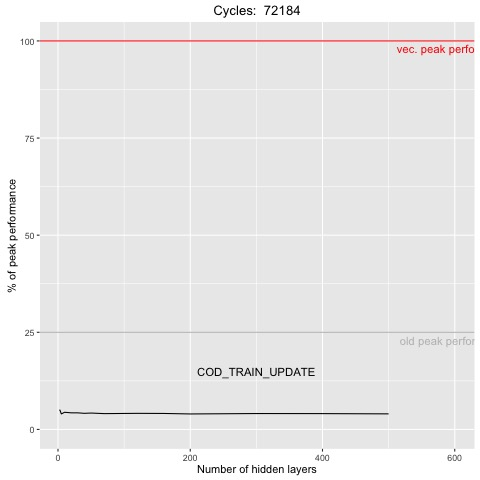
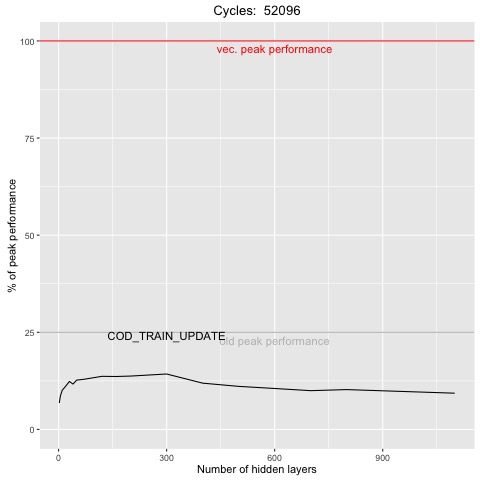
Scalar merged

diff --git a/rbm_final_Utrans/scalar/merged/rbm.h b/rbm_final_Utrans/scalar/merged/rbm.h
@@ -260,16 +260,68 @@ double sigmoid(double val)
  * This function if more general then the previous one for h0_cap
  * h <- sigmoid( c + Wx + Uy )
  */
-void h_update(double * h, int y0, int * x0){
+void h_update(double * h, int y0, double * x0){
+    
+    double sum, s1, s2, s3, s4;
+    __m128d w5, w6, w7, w8, w13, w14, w15, w16;
+    __m128d x5, x6, x7, x8, x13, x14, x15, x16;
+    
+    double sum2;
     
     for (int i = 0; i < n ; i++)
     {
-        double sum = c[i];
-        for (int j = 0; j < D; j++)
+        __m128d s5 = {0};
+        __m128d s6 = {0};
+        __m128d s7 = {0};
+        __m128d s8 = {0};
+        int iD = i*D;
+        for (int j = 0; j < D; j+=16)
         {
-            sum = sum + W[i * D + j] * x0[j];
+            
+            w5 = _mm_load_sd(W + iD + j + 4);
+            w6 = _mm_load_sd(W + iD + j + 5);
+            w7 = _mm_load_sd(W + iD + j + 6);
+            w8 = _mm_load_sd(W + iD + j + 7);
+            w13 = _mm_load_sd(W + iD + j + 12);
+            w14 = _mm_load_sd(W + iD + j + 13);
+            w15 = _mm_load_sd(W + iD + j + 14);
+            w16 = _mm_load_sd(W + iD + j + 15);
+            
+            x5 = _mm_load_sd(x0 + j + 4);
+            x6 = _mm_load_sd(x0 + j + 5);
+            x7 = _mm_load_sd(x0 + j + 6);
+            x8 = _mm_load_sd(x0 + j + 7);
+            x13 = _mm_load_sd(x0 + j + 12);
+            x14 = _mm_load_sd(x0 + j + 13);
+            x15 = _mm_load_sd(x0 + j + 14);
+            x16 = _mm_load_sd(x0 + j + 15);
+            
+            
+            s1 = s1 + W[iD + j] * x0[j];
+            s2 = s2 + W[iD + j+1] * x0[j+1];
+            s3 = s3 + W[iD + j+2] * x0[j+2];
+            s4 = s4 + W[iD + j+3] * x0[j+3];
+            
+            s1 = s1 + W[iD + j+8] * x0[j+8];
+            s2 = s2 + W[iD + j+9] * x0[j+9];
+            s3 = s3 + W[iD + j+10] * x0[j+10];
+            s4 = s4 + W[iD + j+11] * x0[j+11];
+            
+            s5 = _mm_fmadd_sd(w5, x5, s5);
+            s6 = _mm_fmadd_sd(w6, x6, s6);
+            s7 = _mm_fmadd_sd(w7, x7, s7);
+            s8 = _mm_fmadd_sd(w8, x8, s8);
+            s5 = _mm_fmadd_sd(w13, x13, s5);
+            s6 = _mm_fmadd_sd(w14, x14, s6);
+            s7 = _mm_fmadd_sd(w15, x15, s7);
+            s8 = _mm_fmadd_sd(w16, x16, s8);
+            
         }
-        
+        s5 = _mm_add_sd(s5, s6);
+        s7 = _mm_add_sd(s7, s8);
+        s5 = _mm_add_sd(s5, s7);
+        _mm_store_sd(&sum2,s5);
+        sum = c[i] + s1+ s2+ s3+ s4 + sum2;
         
         //Can be optimized
         for (int j = 0; j < K; j++)
@@ -419,11 +471,15 @@ void COD_training_update(int yi, int * xi, double * h0_cap,
     //double * h0_cap = (double *) malloc(sizeof(double) * n);
     
     // Here we update h0_cap <- sigmoid( c + Wx0 + Uy0 )
+    
+    double* x0d = (double*)malloc(sizeof(double)*n);
+    for (int i = 0; i < n; i++)
+        x0d[i] = (double)x0[i];
 #ifdef PERF_H0_UPDATE
     myInt64 start;
     start = start_tsc();
 #endif
-    h_update(h0_cap, y0, x0);
+    h_update(h0_cap, y0, x0d);
 #ifdef PERF_H0_UPDATE
     myInt64 cycles = stop_tsc(start);
     count = count + 1;
@@ -481,12 +537,18 @@ void COD_training_update(int yi, int * xi, double * h0_cap,
     
     
     
+    
     // Here we update h1_cap <- sigmoid( c + Wx1 + Uy1 )
+    
+    double* x1d = (double*)malloc(sizeof(double)*n);
+    for (int i = 0; i < n; i++)
+        x1d[i] = (double)x1[i];
+    
 #ifdef PERF_H1_UPDATE
     myInt64 start;
     start = start_tsc();
 #endif
-    h_update(h1_cap, y1, x1);
+    h_update(h1_cap, y1, x1d);
 #ifdef PERF_H1_UPDATE
     myInt64 cycles = stop_tsc(start);
     count = count + 1;
@@ -684,26 +746,53 @@ double energy_for_all()
  */
 void gibbs_H(int y0)
 {
-    for (int j = 0; j < n; j++)
+    double sum, s1, s2, s3, s4, s5, s6, s7, s8;
+    for (int i = 0; i < n ; i++)
     {
-        double sum = c[j] + U[y0 * n + j];
-        for (int i = 0; i < D; i++)
+        s1 = 0;
+        s2 = 0;
+        s3 = 0;
+        s4 = 0;
+        s5 = 0;
+        s6 = 0;
+        s7 = 0;
+        s8 = 0;
+        for (int j = 0; j < D; j+=16)
         {
-            sum = sum + W[j * D + i] * x0[i];
+            s1 = s1 + W[i * D + j] * x0[j];
+            s2 = s2 + W[i * D + j+1] * x0[j+1];
+            s3 = s3 + W[i * D + j+2] * x0[j+2];
+            s4 = s4 + W[i * D + j+3] * x0[j+3];
+            s5 = s5 + W[i * D + j+4] * x0[j+4];
+            s6 = s6 + W[i * D + j+5] * x0[j+5];
+            s7 = s7 + W[i * D + j+6] * x0[j+6];
+            s8 = s8 + W[i * D + j+7] * x0[j+7];
+            
+            s1 = s1 + W[i * D + j+8] * x0[j+8];
+            s2 = s2 + W[i * D + j+9] * x0[j+9];
+            s3 = s3 + W[i * D + j+10] * x0[j+10];
+            s4 = s4 + W[i * D + j+11] * x0[j+11];
+            s5 = s5 + W[i * D + j+12] * x0[j+12];
+            s6 = s6 + W[i * D + j+13] * x0[j+13];
+            s7 = s7 + W[i * D + j+14] * x0[j+14];
+            s8 = s8 + W[i * D + j+15] * x0[j+15];
         }
+        sum = c[i] + U[y0 * n + i] + s1+ s2+ s3+ s4+ s5+ s6+ s7+ s8;
         
         double p = sigmoid(sum);
         double rand = uniform();
         if (rand < p)
         {
-            h0[j] = 1;
+            h0[i] = 1;
         }
         else
         {
-            h0[j] = 0;
+            h0[i] = 0;
         }
     }
 }
+
+
 
 /*
  Gibbs samplings for Y (label)
